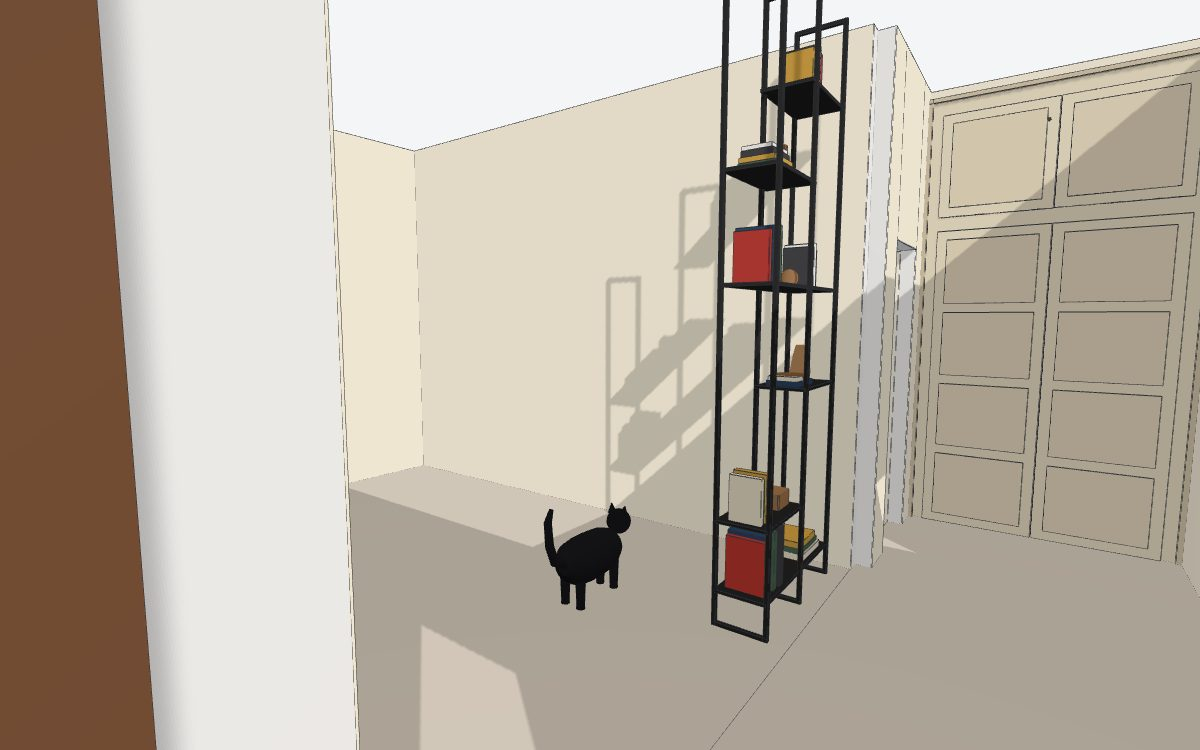
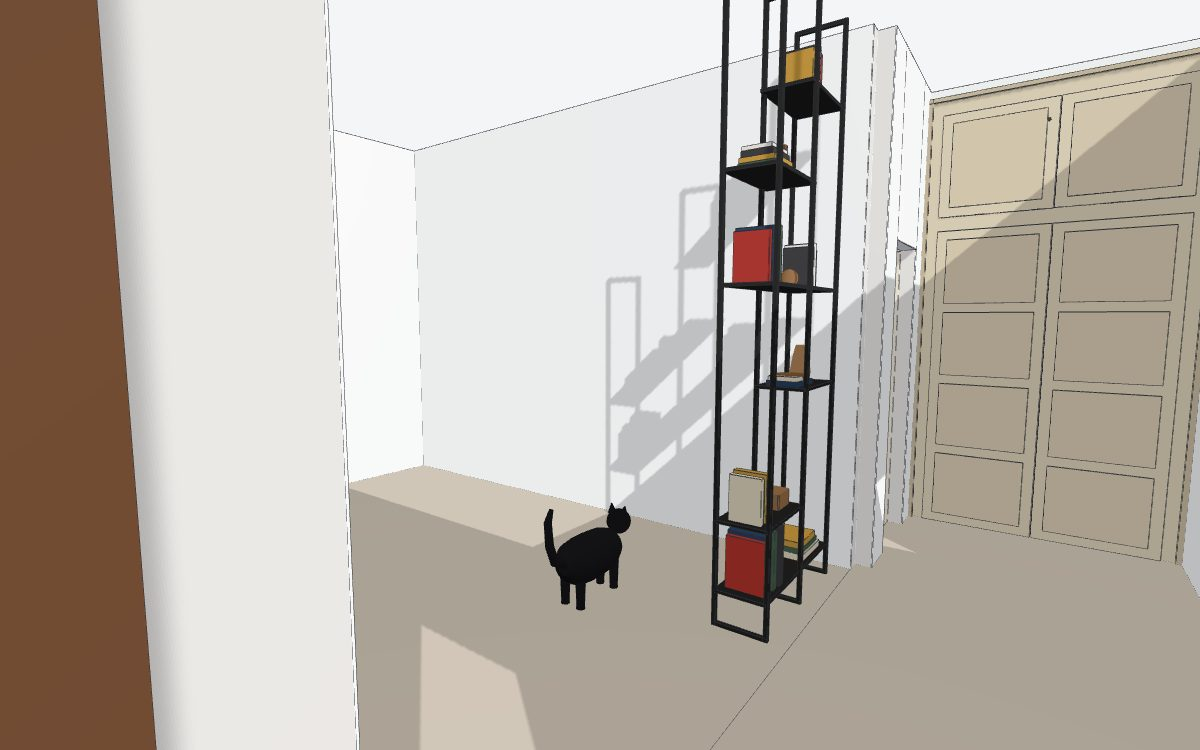
All three versions: interior wall faces white, outer faces unchanged
Claude-Session: https://claude.ai/code/session_017Czcnh6xzZxgGSwco7M1Pu

Changed region(s): [[0.2775, 0.0307, 0.8942, 0.7667], [0.9867, 0.552, 1.0, 0.7973], [0.8942, 0.0307, 1.0, 0.092]]

diff --git a/projects/casa-poggi-porta-scorrevole/house.js b/projects/casa-poggi-porta-scorrevole/house.js
@@ -40,6 +40,7 @@ const KP = { w: 50, d: 35 };                       // pier left of the old cucin
 const XK1 = -KP.w, XK0 = XK1 - ROOMS.cucina.w;     // cucina -149..-50 (the 99 cm run ends at the pier)
 const YK0 = YS1 - ROOMS.cucina.d;                  // cucina south face (920)
 
+const WHITE = [250, 250, 248, 255];   // interior wall paint   user
 const C = { wall: [236, 233, 228, 255], floor: [196, 186, 172, 255], balcony: [170, 168, 164, 255],
             rail: [70, 72, 76, 255], glass: [170, 205, 225, 80] };
 const pf = (cx) => ({ from: cx - PF.w / 2, to: cx + PF.w / 2, head: PF.h });
@@ -81,7 +82,7 @@ slab('/Casa/Pavimento_Cucina', C.floor, ccw([[XK0 - TK, YS1 + TE], KA_out, KB_ou
 // ---------- partitions ----------
 wall('/Casa/Tramezzo_Ingresso_Camera', C.wall, [XC0, YC1, XR, YI0], H, [{ from: 230, to: 230 + DOOR_W, head: DOOR_H }]);
 // the cucina / soggiorno partition is removed on request: open plan (no wall, no door); only the pier at the cortile wall stays
-box('/Casa/Pilastro_Cucina', C.wall, XK1, YS1 - KP.d, 0, 0, YS1, H);
+box('/Casa/Pilastro_Cucina', WHITE, XK1, YS1 - KP.d, 0, 0, YS1, H);
 wall('/Casa/Tramezzo_Soggiorno_Bagno', C.wall, [ROOMS.soggiorno.w, YS0, XB0, YS1], H);
 wall('/Casa/Tramezzo_Bagno_Ingresso', C.wall, [XB0, YI1, XR, YS0], H, [{ from: XB0 + 30, to: XB0 + 30 + 70, head: DOOR_H }]);
 
@@ -96,8 +97,8 @@ group('porte', () => {
 
 // ---------- cream paint on the walls of camera and soggiorno (bagno, cucina, ingresso stay white) ----------
 // thin skins on the room faces, in a default-on group so the Plan sheet keeps measuring the bare walls   colour estimate from photos
-{ const P = [240, 230, 208, 255], s = 0.3;
-  defGroup('pittura', 'Pareti color panna', 'Finiture', null, { fixed: true });
+{ const P = WHITE, s = 0.3;   // inner faces white (user); outer faces keep the raw wall colour
+  defGroup('pittura', 'Pareti bianche (interni)', 'Finiture', null, { fixed: true });
   group('pittura', () => {
     wall('/Pittura/Camera_Sud', P, [XC0, 0, XR, s], H, [CAM_PF]);
     wall('/Pittura/Camera_Nord', P, [XC0, YC1 - s, XR, YC1], H, [{ from: 230, to: 230 + DOOR_W, head: DOOR_H }]);
@@ -111,6 +112,15 @@ group('porte', () => {
     wall('/Pittura/Soggiorno_Nord', P, [0, YS1 - s, ROOMS.soggiorno.w, YS1], H, [SOG_PF]);
     wall('/Pittura/Soggiorno_Ovest', P, [0, YS0, s, YK0 - TK], H);
     wall('/Pittura/Soggiorno_Est', P, [ROOMS.soggiorno.w - s, YS0, ROOMS.soggiorno.w, YS1], H);
+    wall('/Pittura/Bagno_Ovest', P, [XB0, YS0, XB0 + s, YS1], H);
+    wall('/Pittura/Bagno_Est', P, [XR - s, YS0, XR, YS1], H);
+    wall('/Pittura/Bagno_Nord', P, [XB0, YS1 - s, XR, YS1], H, [BAGNO_WIN]);
+    wall('/Pittura/Bagno_Sud', P, [XB0, YS0, XR, YS0 + s], H, [{ from: XB0 + 30, to: XB0 + 100, head: DOOR_H }]);
+    wall('/Pittura/Cucina_Ovest', P, [XK0, KA[1], XK0 + s, YS1], H);
+    wall('/Pittura/Cucina_Nord', P, [XK0, YS1 - s, XK1, YS1], H);
+    wall('/Pittura/Cucina_Sud', P, [KB[0], YK0, -TS, YK0 + s], H);
+    { const n = [KB[1] - KA[1], -(KB[0] - KA[0])], l = Math.hypot(...n), o = [n[0] / l * s, n[1] / l * s];   // oblique wall: a thin slab on its inner face
+      slab('/Pittura/Cucina_Obliqua', P, ccw([KA, KB, [KB[0] - o[0], KB[1] - o[1]], [KA[0] - o[0], KA[1] - o[1]]]), 0, H); }
   });
 }
 
@@ -307,7 +317,7 @@ const balcony = (n, x0, x1, y0, y1, side) => {
   const L = (y1 - y0) / 4, th = 35 * Math.PI / 180, fw = 4, ft = 1.5;   // leaf width, half fold angle, frame width, half thickness
   defGroup('porta-cucina', 'Porta a soffietto cucina (vetro, grigio scuro)', 'Porte');
   group('porta-cucina', () => {
-    box('/Porta_Cucina/Porta_Muro_Sopra', C.wall, x - 10, y0, DH, x, y1, H);   // wall from the door head to the ceiling, flush with the wall face
+    box('/Porta_Cucina/Porta_Muro_Sopra', WHITE, x - 10, y0, DH, x, y1, H);   // wall from the door head to the ceiling, flush with the wall face
     const leaf = (n, A, B) => {                      // one leaf from hinge line A to hinge line B (plan points)
       const d = [(B[0] - A[0]) / L, (B[1] - A[1]) / L], nr = [-d[1], d[0]];
       const P = (u, v) => [A[0] + d[0] * u + nr[0] * v, A[1] + d[1] * u + nr[1] * v];

diff --git a/projects/casa-poggi/house.js b/projects/casa-poggi/house.js
@@ -40,6 +40,7 @@ const KP = { w: 50, d: 35 };                       // pier left of the old cucin
 const XK1 = -KP.w, XK0 = XK1 - ROOMS.cucina.w;     // cucina -149..-50 (the 99 cm run ends at the pier)
 const YK0 = YS1 - ROOMS.cucina.d;                  // cucina south face (920)
 
+const WHITE = [250, 250, 248, 255];   // interior wall paint   user
 const C = { wall: [236, 233, 228, 255], floor: [196, 186, 172, 255], balcony: [170, 168, 164, 255],
             rail: [70, 72, 76, 255], glass: [170, 205, 225, 80] };
 const pf = (cx) => ({ from: cx - PF.w / 2, to: cx + PF.w / 2, head: PF.h });
@@ -81,7 +82,7 @@ slab('/Casa/Pavimento_Cucina', C.floor, ccw([[XK0 - TK, YS1 + TE], KA_out, KB_ou
 // ---------- partitions ----------
 wall('/Casa/Tramezzo_Ingresso_Camera', C.wall, [XC0, YC1, XR, YI0], H, [{ from: 230, to: 230 + DOOR_W, head: DOOR_H }]);
 // the cucina / soggiorno partition is removed on request: open plan (no wall, no door); only the pier at the cortile wall stays
-box('/Casa/Pilastro_Cucina', C.wall, XK1, YS1 - KP.d, 0, 0, YS1, H);
+box('/Casa/Pilastro_Cucina', WHITE, XK1, YS1 - KP.d, 0, 0, YS1, H);
 wall('/Casa/Tramezzo_Soggiorno_Bagno', C.wall, [ROOMS.soggiorno.w, YS0, XB0, YS1], H);
 wall('/Casa/Tramezzo_Bagno_Ingresso', C.wall, [XB0, YI1, XR, YS0], H, [{ from: XB0 + 30, to: XB0 + 30 + 70, head: DOOR_H }]);
 
@@ -96,8 +97,8 @@ group('porte', () => {
 
 // ---------- cream paint on the walls of camera and soggiorno (bagno, cucina, ingresso stay white) ----------
 // thin skins on the room faces, in a default-on group so the Plan sheet keeps measuring the bare walls   colour estimate from photos
-{ const P = [240, 230, 208, 255], s = 0.3;
-  defGroup('pittura', 'Pareti color panna', 'Finiture', null, { fixed: true });
+{ const P = WHITE, s = 0.3;   // inner faces white (user); outer faces keep the raw wall colour
+  defGroup('pittura', 'Pareti bianche (interni)', 'Finiture', null, { fixed: true });
   group('pittura', () => {
     wall('/Pittura/Camera_Sud', P, [XC0, 0, XR, s], H, [CAM_PF]);
     wall('/Pittura/Camera_Nord', P, [XC0, YC1 - s, XR, YC1], H, [{ from: 230, to: 230 + DOOR_W, head: DOOR_H }]);
@@ -111,6 +112,15 @@ group('porte', () => {
     wall('/Pittura/Soggiorno_Nord', P, [0, YS1 - s, ROOMS.soggiorno.w, YS1], H, [SOG_PF]);
     wall('/Pittura/Soggiorno_Ovest', P, [0, YS0, s, YK0 - TK], H);
     wall('/Pittura/Soggiorno_Est', P, [ROOMS.soggiorno.w - s, YS0, ROOMS.soggiorno.w, YS1], H);
+    wall('/Pittura/Bagno_Ovest', P, [XB0, YS0, XB0 + s, YS1], H);
+    wall('/Pittura/Bagno_Est', P, [XR - s, YS0, XR, YS1], H);
+    wall('/Pittura/Bagno_Nord', P, [XB0, YS1 - s, XR, YS1], H, [BAGNO_WIN]);
+    wall('/Pittura/Bagno_Sud', P, [XB0, YS0, XR, YS0 + s], H, [{ from: XB0 + 30, to: XB0 + 100, head: DOOR_H }]);
+    wall('/Pittura/Cucina_Ovest', P, [XK0, KA[1], XK0 + s, YS1], H);
+    wall('/Pittura/Cucina_Nord', P, [XK0, YS1 - s, XK1, YS1], H);
+    wall('/Pittura/Cucina_Sud', P, [KB[0], YK0, -TS, YK0 + s], H);
+    { const n = [KB[1] - KA[1], -(KB[0] - KA[0])], l = Math.hypot(...n), o = [n[0] / l * s, n[1] / l * s];   // oblique wall: a thin slab on its inner face
+      slab('/Pittura/Cucina_Obliqua', P, ccw([KA, KB, [KB[0] - o[0], KB[1] - o[1]], [KA[0] - o[0], KA[1] - o[1]]]), 0, H); }
   });
 }
 
@@ -308,7 +318,7 @@ const balcony = (n, x0, x1, y0, y1, side) => {
   const L = (y1 - y0) / 4, th = 35 * Math.PI / 180, fw = 4, ft = 1.5;   // leaf width, half fold angle, frame width, half thickness
   defGroup('porta-cucina', 'Porta a soffietto cucina (vetro, grigio scuro)', 'Porte');
   group('porta-cucina', () => {
-    box('/Porta_Cucina/Porta_Muro_Sopra', C.wall, x - 10, y0, DH, x, y1, H);   // wall from the door head to the ceiling, flush with the wall face
+    box('/Porta_Cucina/Porta_Muro_Sopra', WHITE, x - 10, y0, DH, x, y1, H);   // wall from the door head to the ceiling, flush with the wall face
     const leaf = (n, A, B) => {                      // one leaf from hinge line A to hinge line B (plan points)
       const d = [(B[0] - A[0]) / L, (B[1] - A[1]) / L], nr = [-d[1], d[0]];
       const P = (u, v) => [A[0] + d[0] * u + nr[0] * v, A[1] + d[1] * u + nr[1] * v];

diff --git a/projects/casa-poggi-gabbia-cucina/house.js b/projects/casa-poggi-gabbia-cucina/house.js
@@ -40,6 +40,7 @@ const KP = { w: 50, d: 35 };                       // pier left of the old cucin
 const XK1 = -KP.w, XK0 = XK1 - ROOMS.cucina.w;     // cucina -149..-50 (the 99 cm run ends at the pier)
 const YK0 = YS1 - ROOMS.cucina.d;                  // cucina south face (920)
 
+const WHITE = [250, 250, 248, 255];   // interior wall paint   user
 const C = { wall: [236, 233, 228, 255], floor: [196, 186, 172, 255], balcony: [170, 168, 164, 255],
             rail: [70, 72, 76, 255], glass: [170, 205, 225, 80] };
 const pf = (cx) => ({ from: cx - PF.w / 2, to: cx + PF.w / 2, head: PF.h });
@@ -81,7 +82,7 @@ slab('/Casa/Pavimento_Cucina', C.floor, ccw([[XK0 - TK, YS1 + TE], KA_out, KB_ou
 // ---------- partitions ----------
 wall('/Casa/Tramezzo_Ingresso_Camera', C.wall, [XC0, YC1, XR, YI0], H, [{ from: 230, to: 230 + DOOR_W, head: DOOR_H }]);
 // the cucina / soggiorno partition is removed on request: open plan (no wall, no door); only the pier at the cortile wall stays
-box('/Casa/Pilastro_Cucina', C.wall, XK1, YS1 - KP.d, 0, 0, YS1, H);
+box('/Casa/Pilastro_Cucina', WHITE, XK1, YS1 - KP.d, 0, 0, YS1, H);
 wall('/Casa/Tramezzo_Soggiorno_Bagno', C.wall, [ROOMS.soggiorno.w, YS0, XB0, YS1], H);
 wall('/Casa/Tramezzo_Bagno_Ingresso', C.wall, [XB0, YI1, XR, YS0], H, [{ from: XB0 + 30, to: XB0 + 30 + 70, head: DOOR_H }]);
 
@@ -96,8 +97,8 @@ group('porte', () => {
 
 // ---------- cream paint on the walls of camera and soggiorno (bagno, cucina, ingresso stay white) ----------
 // thin skins on the room faces, in a default-on group so the Plan sheet keeps measuring the bare walls   colour estimate from photos
-{ const P = [240, 230, 208, 255], s = 0.3;
-  defGroup('pittura', 'Pareti color panna', 'Finiture', null, { fixed: true });
+{ const P = WHITE, s = 0.3;   // inner faces white (user); outer faces keep the raw wall colour
+  defGroup('pittura', 'Pareti bianche (interni)', 'Finiture', null, { fixed: true });
   group('pittura', () => {
     wall('/Pittura/Camera_Sud', P, [XC0, 0, XR, s], H, [CAM_PF]);
     wall('/Pittura/Camera_Nord', P, [XC0, YC1 - s, XR, YC1], H, [{ from: 230, to: 230 + DOOR_W, head: DOOR_H }]);
@@ -111,6 +112,15 @@ group('porte', () => {
     wall('/Pittura/Soggiorno_Nord', P, [0, YS1 - s, ROOMS.soggiorno.w, YS1], H, [SOG_PF]);
     wall('/Pittura/Soggiorno_Ovest', P, [0, YS0, s, YK0 - TK], H);
     wall('/Pittura/Soggiorno_Est', P, [ROOMS.soggiorno.w - s, YS0, ROOMS.soggiorno.w, YS1], H);
+    wall('/Pittura/Bagno_Ovest', P, [XB0, YS0, XB0 + s, YS1], H);
+    wall('/Pittura/Bagno_Est', P, [XR - s, YS0, XR, YS1], H);
+    wall('/Pittura/Bagno_Nord', P, [XB0, YS1 - s, XR, YS1], H, [BAGNO_WIN]);
+    wall('/Pittura/Bagno_Sud', P, [XB0, YS0, XR, YS0 + s], H, [{ from: XB0 + 30, to: XB0 + 100, head: DOOR_H }]);
+    wall('/Pittura/Cucina_Ovest', P, [XK0, KA[1], XK0 + s, YS1], H);
+    wall('/Pittura/Cucina_Nord', P, [XK0, YS1 - s, XK1, YS1], H);
+    wall('/Pittura/Cucina_Sud', P, [KB[0], YK0, -TS, YK0 + s], H);
+    { const n = [KB[1] - KA[1], -(KB[0] - KA[0])], l = Math.hypot(...n), o = [n[0] / l * s, n[1] / l * s];   // oblique wall: a thin slab on its inner face
+      slab('/Pittura/Cucina_Obliqua', P, ccw([KA, KB, [KB[0] - o[0], KB[1] - o[1]], [KA[0] - o[0], KA[1] - o[1]]]), 0, H); }
   });
 }
 
